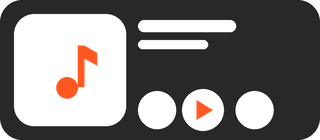
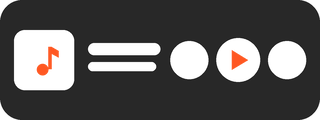
Widget del reproductor: arreglar la carátula teñida y ordenar el diseño
- La carátula salía como un cuadrado de color sólido: el lanzador recicla
  la vista y conservaba el filtro de color de cuando no había portada.
- Sin portada ahora se dibuja un recuadro con una nota, no un ícono teñido.
- Con fondo de carátula, la imagen y su velo se componen opacos y recién
  después se aplica la transparencia, así el texto se lee siempre.
- Botones al costado del texto en vez de debajo: entra bien en dos celdas.

Claude-Session: https://claude.ai/code/session_01RJhmfwn5PzEK3o1yBp3oQp

diff --git a/tools/ci/prepare_android.py b/tools/ci/prepare_android.py
@@ -536,33 +536,80 @@ internal fun backgroundBitmap(
         val paint = Paint(Paint.ANTI_ALIAS_FLAG)
         val target = RectF(0f, 0f, width.toFloat(), height.toFloat())
         val art = if (style.useArtwork) decodeScaled(artPath, maxOf(width, height)) else null
-        paint.color = if (art != null) Color.BLACK else style.background
-        paint.alpha = style.alpha
-        canvas.drawRoundRect(target, radius, radius, paint)
-        if (art != null) {
-            paint.xfermode = PorterDuffXfermode(PorterDuff.Mode.SRC_IN)
-            // Recorte central que llene el widget sin deformar la imagen.
-            val scale = maxOf(width.toFloat() / art.width, height.toFloat() / art.height)
-            val cropWidth = (width / scale).toInt().coerceAtMost(art.width)
-            val cropHeight = (height / scale).toInt().coerceAtMost(art.height)
-            val src = Rect(
+
+        if (art == null) {
+            paint.color = style.background
+            paint.alpha = style.alpha
+            canvas.drawRoundRect(target, radius, radius, paint)
+            return output
+        }
+
+        // La carátula y su velo se componen opacos en una capa aparte: así el
+        // texto se sigue leyendo aunque el widget esté muy transparente.
+        val layer = Bitmap.createBitmap(width, height, Bitmap.Config.ARGB_8888)
+        val layerCanvas = Canvas(layer)
+        val layerPaint = Paint(Paint.ANTI_ALIAS_FLAG)
+        layerPaint.color = Color.BLACK
+        layerCanvas.drawRoundRect(target, radius, radius, layerPaint)
+        layerPaint.xfermode = PorterDuffXfermode(PorterDuff.Mode.SRC_IN)
+        val scale = maxOf(width.toFloat() / art.width, height.toFloat() / art.height)
+        val cropWidth = (width / scale).toInt().coerceIn(1, art.width)
+        val cropHeight = (height / scale).toInt().coerceIn(1, art.height)
+        layerCanvas.drawBitmap(
+            art,
+            Rect(
                 (art.width - cropWidth) / 2,
                 (art.height - cropHeight) / 2,
                 (art.width + cropWidth) / 2,
                 (art.height + cropHeight) / 2,
-            )
-            canvas.drawBitmap(art, src, target, paint)
-            paint.xfermode = null
-            // Velo oscuro para que el texto se lea sobre cualquier portada.
-            paint.color = Color.BLACK
-            paint.alpha = (style.alpha * 0.45f).toInt().coerceIn(0, 255)
-            canvas.drawRoundRect(target, radius, radius, paint)
-        }
+            ),
+            target,
+            layerPaint,
+        )
+        layerPaint.xfermode = PorterDuffXfermode(PorterDuff.Mode.SRC_ATOP)
+        layerPaint.color = Color.BLACK
+        layerPaint.alpha = 140
+        layerCanvas.drawRoundRect(target, radius, radius, layerPaint)
+
+        paint.alpha = style.alpha
+        canvas.drawBitmap(layer, 0f, 0f, paint)
         output
     } catch (error: Throwable) {
         Log.w(TAG, "No se pudo dibujar el fondo del widget", error)
         null
     }
+}
+
+/** Carátula redondeada; si no hay, un recuadro con una nota del color de acento. */
+internal fun artworkTile(path: String?, size: Int, accent: Int): Bitmap {
+    roundedArt(path, size)?.let { return it }
+    val output = Bitmap.createBitmap(size, size, Bitmap.Config.ARGB_8888)
+    val canvas = Canvas(output)
+    val paint = Paint(Paint.ANTI_ALIAS_FLAG)
+    paint.color = Color.argb(46, 255, 255, 255)
+    canvas.drawRoundRect(
+        RectF(0f, 0f, size.toFloat(), size.toFloat()),
+        size * 0.18f,
+        size * 0.18f,
+        paint,
+    )
+    // Nota musical sencilla, centrada.
+    paint.color = accent
+    val stem = size * 0.07f
+    val right = size * 0.62f
+    canvas.drawRect(right - stem, size * 0.26f, right, size * 0.66f, paint)
+    canvas.drawPath(
+        android.graphics.Path().apply {
+            moveTo(right, size * 0.26f)
+            lineTo(size * 0.76f, size * 0.33f)
+            lineTo(size * 0.76f, size * 0.45f)
+            lineTo(right, size * 0.38f)
+            close()
+        },
+        paint,
+    )
+    canvas.drawCircle(right - stem - size * 0.09f, size * 0.68f, size * 0.12f, paint)
+    return output
 }
 
 /** Widget grande: carátula, título, artista y controles. */
@@ -609,13 +656,10 @@ class PlayerWidget : AppWidgetProvider() {
         views.setTextColor(R.id.widget_title, style.onColor)
         views.setTextColor(R.id.widget_artist, style.onColor)
 
-        val art = roundedArt(artPath, 160)
-        if (art != null) {
-            views.setImageViewBitmap(R.id.widget_art, art)
-        } else {
-            views.setImageViewResource(R.id.widget_art, R.drawable.ic_widget_note)
-            views.setInt(R.id.widget_art, "setColorFilter", accent)
-        }
+        views.setImageViewBitmap(R.id.widget_art, artworkTile(artPath, 180, accent))
+        // Los lanzadores reciclan la vista: si no se vuelve a mandar el filtro,
+        // queda el de la vez anterior y tiñe la carátula de un color sólido.
+        views.setInt(R.id.widget_art, "setColorFilter", 0)
         views.setImageViewResource(
             R.id.widget_play,
             if (prefs.getBoolean("playing", false)) {
@@ -779,20 +823,22 @@ WIDGET_LAYOUT_PLAYER = """<?xml version="1.0" encoding="utf-8"?>
         android:layout_height="match_parent"
         android:gravity="center_vertical"
         android:orientation="horizontal"
-        android:padding="12dp">
+        android:padding="14dp">
 
         <ImageView
             android:id="@+id/widget_art"
-            android:layout_width="72dp"
-            android:layout_height="72dp"
+            android:layout_width="60dp"
+            android:layout_height="60dp"
+            android:adjustViewBounds="true"
             android:contentDescription="Carátula"
-            android:scaleType="centerCrop"
-            android:src="@drawable/ic_widget_note" />
+            android:scaleType="fitCenter"
+            android:src="@drawable/widget_bg" />
 
         <LinearLayout
             android:layout_width="0dp"
             android:layout_height="wrap_content"
-            android:layout_marginStart="12dp"
+            android:layout_marginEnd="8dp"
+            android:layout_marginStart="14dp"
             android:layout_weight="1"
             android:orientation="vertical">
 
@@ -812,47 +858,41 @@ WIDGET_LAYOUT_PLAYER = """<?xml version="1.0" encoding="utf-8"?>
                 android:layout_width="match_parent"
                 android:layout_height="wrap_content"
                 android:ellipsize="end"
+                android:layout_marginTop="2dp"
                 android:maxLines="1"
                 android:text="Tocá para elegir música"
                 android:textColor="#B3FFFFFF"
                 android:textSize="12sp" />
-
-            <LinearLayout
-                android:layout_width="wrap_content"
-                android:layout_height="wrap_content"
-                android:layout_marginTop="4dp"
-                android:orientation="horizontal">
-
-                <ImageView
-                    android:id="@+id/widget_prev"
-                    android:layout_width="40dp"
-                    android:layout_height="40dp"
-                    android:background="@drawable/widget_button_bg"
-                    android:contentDescription="Anterior"
-                    android:padding="8dp"
-                    android:src="@drawable/ic_widget_prev" />
-
-                <ImageView
-                    android:id="@+id/widget_play"
-                    android:layout_width="44dp"
-                    android:layout_height="44dp"
-                    android:layout_marginStart="8dp"
-                    android:background="@drawable/widget_button_bg"
-                    android:contentDescription="Reproducir o pausar"
-                    android:padding="8dp"
-                    android:src="@drawable/ic_widget_play" />
-
-                <ImageView
-                    android:id="@+id/widget_next"
-                    android:layout_width="40dp"
-                    android:layout_height="40dp"
-                    android:layout_marginStart="8dp"
-                    android:background="@drawable/widget_button_bg"
-                    android:contentDescription="Siguiente"
-                    android:padding="8dp"
-                    android:src="@drawable/ic_widget_next" />
-            </LinearLayout>
         </LinearLayout>
+
+        <ImageView
+            android:id="@+id/widget_prev"
+            android:layout_width="38dp"
+            android:layout_height="38dp"
+            android:background="@drawable/widget_button_bg"
+            android:contentDescription="Anterior"
+            android:padding="9dp"
+            android:src="@drawable/ic_widget_prev" />
+
+        <ImageView
+            android:id="@+id/widget_play"
+            android:layout_width="46dp"
+            android:layout_height="46dp"
+            android:layout_marginStart="8dp"
+            android:background="@drawable/widget_button_bg"
+            android:contentDescription="Reproducir o pausar"
+            android:padding="10dp"
+            android:src="@drawable/ic_widget_play" />
+
+        <ImageView
+            android:id="@+id/widget_next"
+            android:layout_width="38dp"
+            android:layout_height="38dp"
+            android:layout_marginStart="8dp"
+            android:background="@drawable/widget_button_bg"
+            android:contentDescription="Siguiente"
+            android:padding="9dp"
+            android:src="@drawable/ic_widget_next" />
     </LinearLayout>
 </FrameLayout>
 """

diff --git a/tools/ci/make_widget_previews.py b/tools/ci/make_widget_previews.py
@@ -73,33 +73,40 @@ def panel(draw, width, height, radius):
     draw.rounded_rectangle([0, 0, width - 1, height - 1], radius=radius, fill=PANEL)
 
 
-def player_preview(width=320, height=140):
+def player_preview(width=320, height=120):
+    """Carátula, dos líneas de texto y los tres botones a la derecha."""
     image = Image.new("RGBA", (width * SS, height * SS), (0, 0, 0, 0))
     draw = ImageDraw.Draw(image)
     w, h = width * SS, height * SS
     panel(draw, w, h, 22 * SS)
 
     pad = 14 * SS
-    art = h - pad * 2
-    draw.rounded_rectangle([pad, pad, pad + art, pad + art], radius=art * 0.18, fill=SOFT)
-    note(draw, (pad + art * 0.18, pad + art * 0.18, art * 0.64), ACCENT)
+    art = 60 * SS
+    top = (h - art) / 2
+    draw.rounded_rectangle([pad, top, pad + art, top + art], radius=art * 0.18, fill=SOFT)
+    note(draw, (pad + art * 0.18, top + art * 0.18, art * 0.64), ACCENT)
 
-    left = pad + art + 12 * SS
-    draw.rounded_rectangle(
-        [left, pad + 6 * SS, left + 98 * SS, pad + 18 * SS], radius=6 * SS, fill=TEXT
-    )
-    draw.rounded_rectangle(
-        [left, pad + 26 * SS, left + 70 * SS, pad + 35 * SS], radius=5 * SS, fill=DIM
-    )
-
-    cy = pad + art - 16 * SS
     radius = 19 * SS
-    circle(draw, left + radius, cy, radius, SOFT)
-    skip(draw, left + radius, cy, radius * 0.7, TEXT, forward=False)
-    cx2 = left + radius * 3 + 8 * SS
-    circle(draw, cx2, cy, radius * 1.1, SOFT)
+    buttons = radius * 2 + 8 * SS + radius * 2.3 + 8 * SS + radius * 2
+    left = pad + art + 14 * SS
+    text_right = w - pad - buttons - 10 * SS
+    cy = h / 2
+    draw.rounded_rectangle(
+        [left, cy - 17 * SS, min(left + 96 * SS, text_right), cy - 5 * SS],
+        radius=6 * SS, fill=TEXT,
+    )
+    draw.rounded_rectangle(
+        [left, cy + 2 * SS, min(left + 68 * SS, text_right), cy + 11 * SS],
+        radius=5 * SS, fill=DIM,
+    )
+
+    cx1 = w - pad - radius * 5.3 - 16 * SS
+    circle(draw, cx1, cy, radius, SOFT)
+    skip(draw, cx1, cy, radius * 0.7, TEXT, forward=False)
+    cx2 = cx1 + radius + 8 * SS + radius * 1.15
+    circle(draw, cx2, cy, radius * 1.15, SOFT)
     triangle(draw, cx2, cy, radius * 0.95, ACCENT)
-    cx3 = cx2 + radius * 2.3 + 8 * SS
+    cx3 = cx2 + radius * 1.15 + 8 * SS + radius
     circle(draw, cx3, cy, radius, SOFT)
     skip(draw, cx3, cy, radius * 0.7, TEXT, forward=True)
     return image.resize((width, height), Image.LANCZOS)
